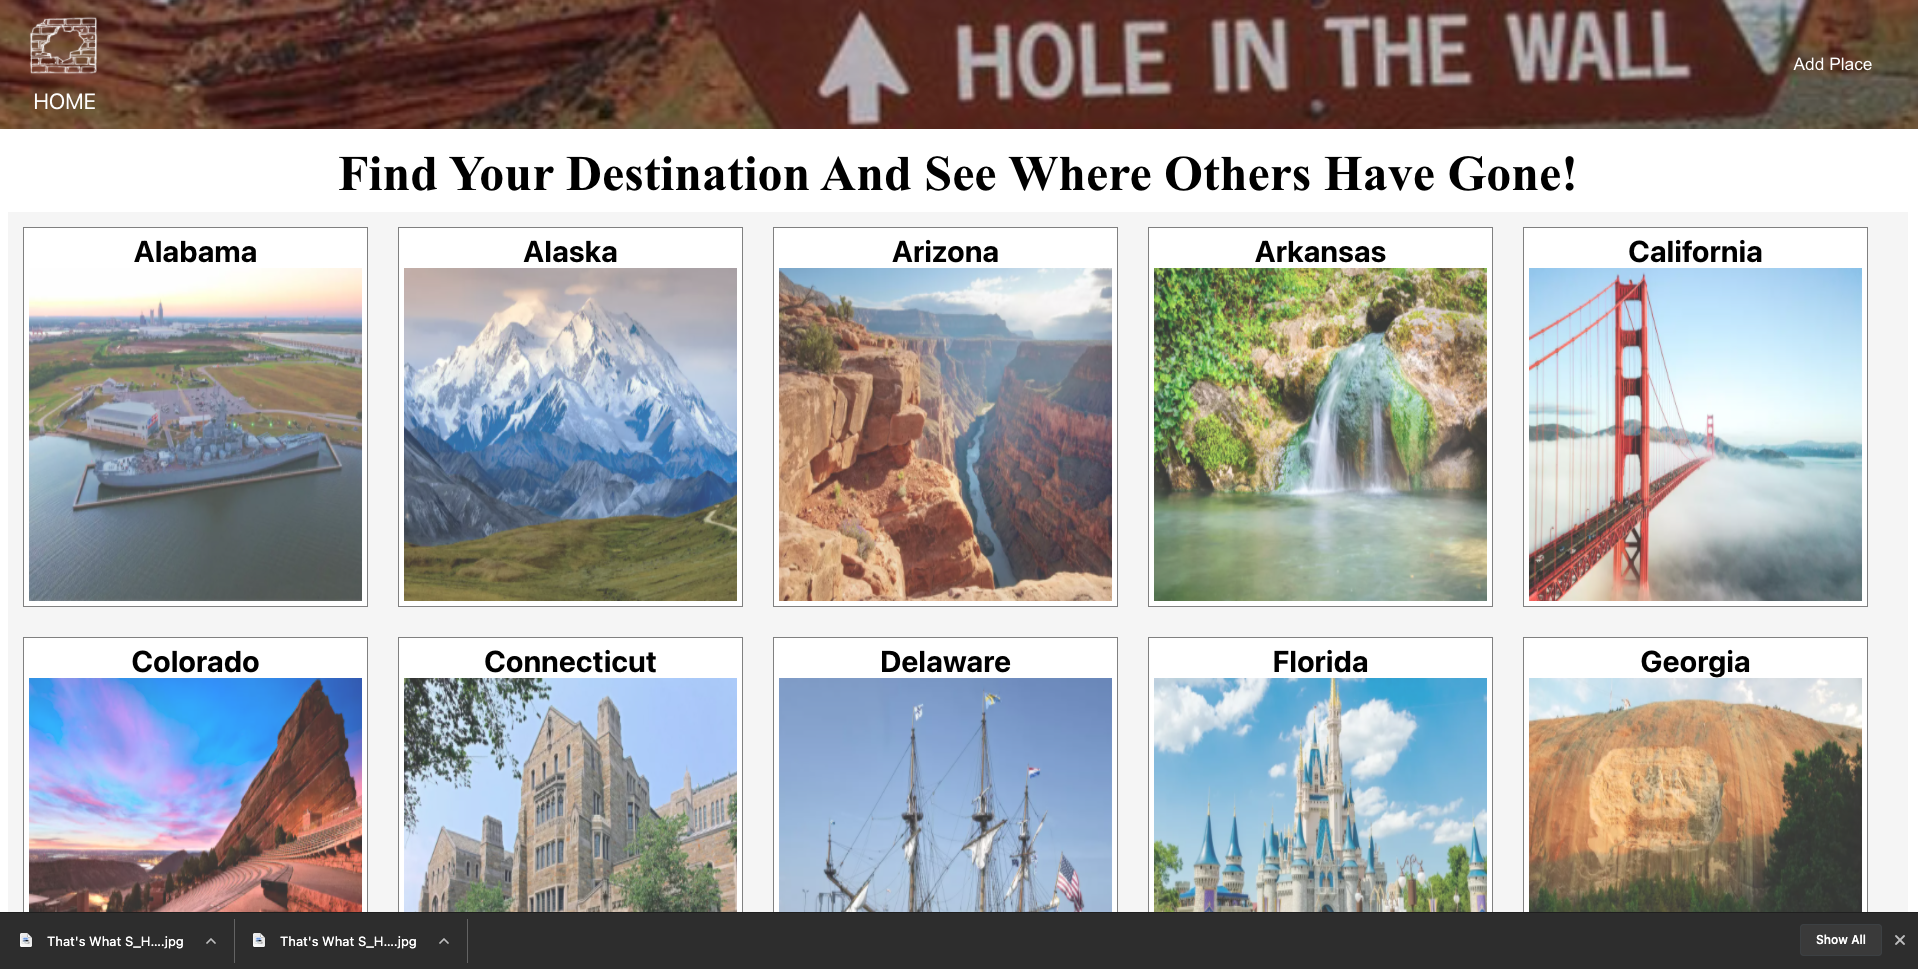
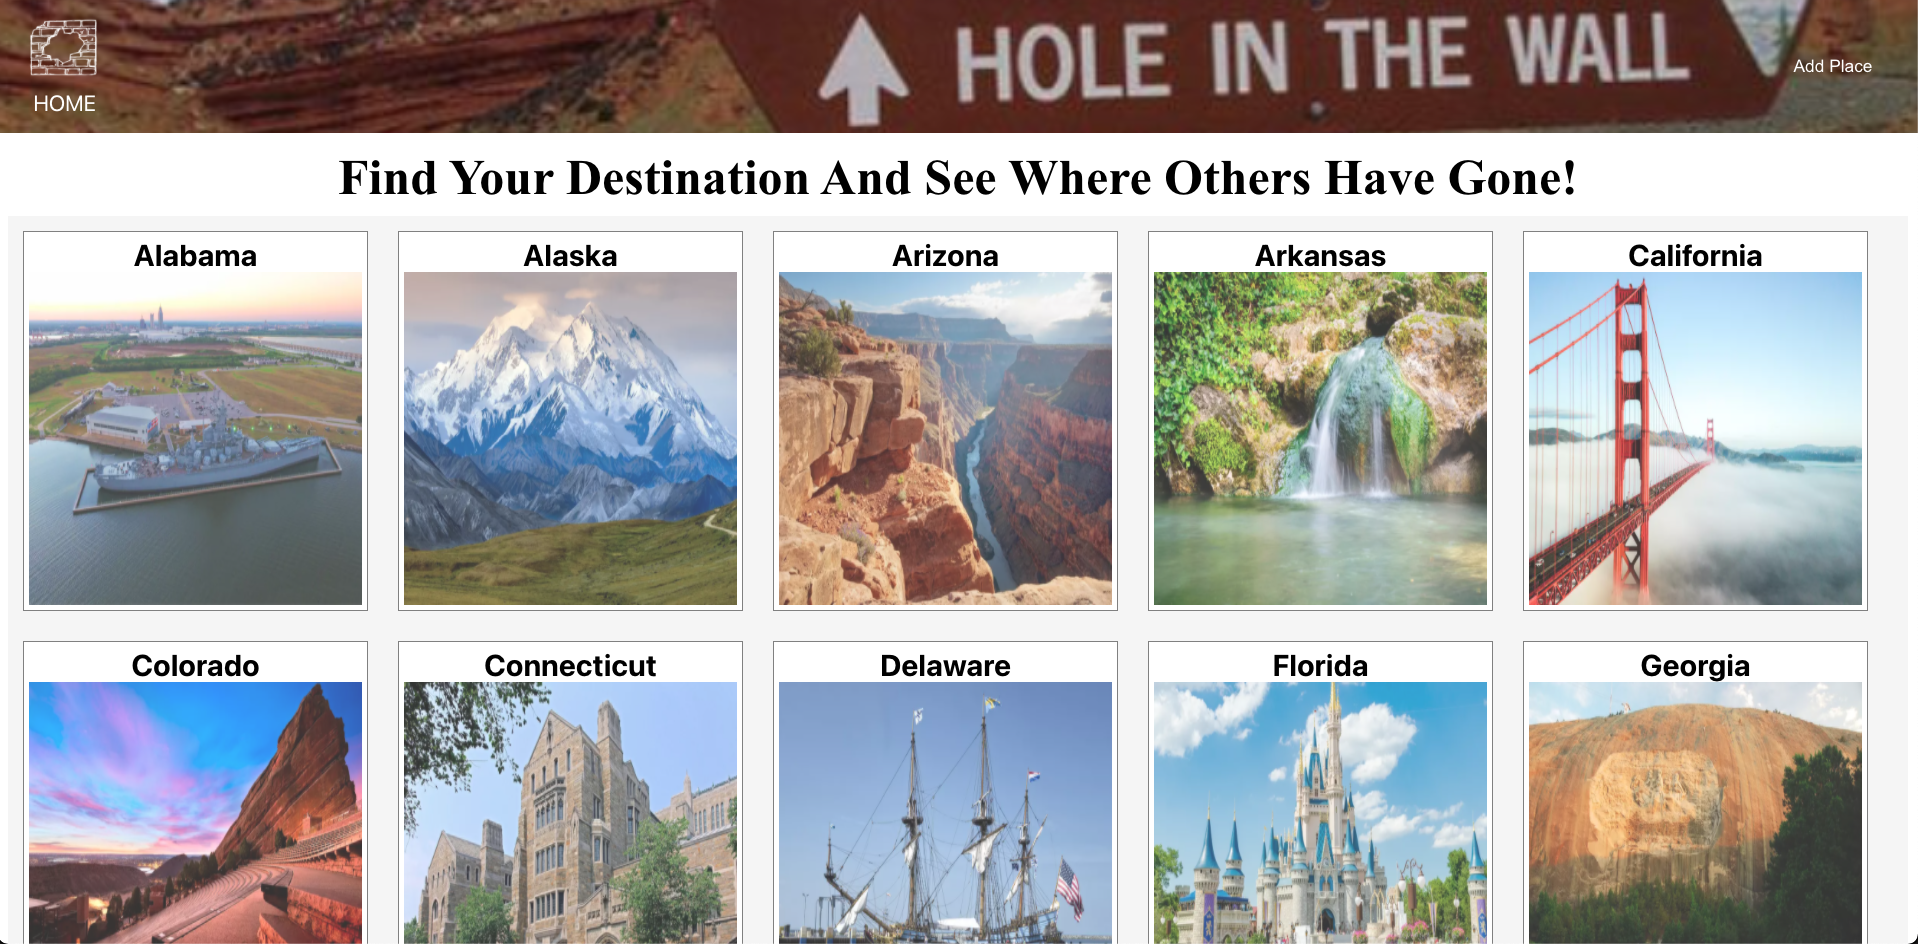
Dark mode/ started mobile view

diff --git a/src/App.js b/src/App.js
@@ -5,7 +5,7 @@ function App() {
     <div className="App">
       <header className="App-header">
         <div className="name">
-          <img className='portfolio-img' src='images/StevenLarsen.jpg' alt="Steven Larsen's portfolio picture"/>
+          <img className='portfolio-img' src='images/StevenLarsen.jpg' alt="Steven Larsen's portfolio"/>
           <h1>Steven Larsen</h1>
         </div>
         <div className="links">
@@ -30,7 +30,8 @@ function App() {
         <a href='https://thatswhatshesaid.dev'>
           <h2 className='website'>That's What S/He Said</h2>
           </a> 
-        <p>That's What S/He Said is an app that lets the user easly add, search, access, and edit their favorite quotes; as well as find new quotes other users have posted.</p>
+          <br/>
+        <p className='website-info'>That's What S/He Said is an app that lets the user easly add, search, access, and edit their favorite quotes; as well as find new quotes other users have posted.</p>
         <br/>
         <br/>
         <div className='images'>
@@ -42,7 +43,8 @@ function App() {
         <a href='http://138.68.42.88:4000/'>
           <h2 className='website'>Hole In The Wall</h2>
           </a> 
-        <p>Hole In The Wall is an app where users can add or find great places to eat in every state. If you are traveling or just want to discover something new close to home rather then eat the same fast food again</p>
+          <br/>
+        <p className='website-info'>Hole In The Wall is an app where users can add or find great places to eat in every state. If you are traveling or just want to discover something new close to home rather then eat the same fast food again</p>
         <br/>
         <br/>
         <div className='images'>

diff --git a/src/App.css b/src/App.css
@@ -1,17 +1,16 @@
 .App {
   text-align: center;
-  background-color: #293E6F;
+  
+  /* background-color: #293E6F; */
 }
 
 .App-header {
-  background-image: url('https://wallpapercave.com/wp/wp5220815.jpg');
-  background-repeat: no-repeat;
-  background-size: cover;
+  background-color: #293E6F;
   position: sticky;
   top: 0;
   padding-left: 10px;
   padding-right: 10px;
-  max-height: 150px;
+  height: 150px;
   display: flex;
   flex-direction: row;
   align-items: center;
@@ -21,8 +20,9 @@
 }
 
 .portfolio-img {
-  height: 150px;
+  height: 135px;
   border-radius: 50%;
+  margin-top: 5px;
   margin-right: 10px;
 }
 
@@ -44,24 +44,68 @@
 }
 
 .website{
-  color: white;
-  text-decoration: underline white;
+  color: black;
+  text-decoration: underline black;
   flex-direction: row;
   margin: 10px;
 }
 
+.website-info{
+  color: black;
+  max-width: 800px;
+  margin-left: 29%;
+}
+
 .images {
   display: flex;
-  justify-content: space-evenly;
+  flex-direction: column;
+  align-items: center;
 }
 
 .image {
-  max-width: 40vw;
+  max-width: 65vw;
+  margin-bottom: 50px;
   
 }
 
 .body {
   height: auto;
-  color: white;
+  color: black;
 }
 
+@media (prefers-color-scheme: dark) {
+ 
+  .App {
+    background-color: black;
+  }
+  .website{
+    color: white;
+    text-decoration: underline white;
+  }
+  .website-info{
+    color: white;
+  }
+  .body {
+    color: white;
+  }
+}
+
+@media screen and (max-width: 1000px){
+  .App {
+    width: 100vw;
+  }
+
+  .App-header {
+    max-height: 15vh;
+  }
+
+  .portfolio-img {
+    height: 12vh;
+    margin-top: 2vh;
+  }
+
+  .website-info{
+    max-width: 75vw;
+    margin-left: 12%;
+  }
+}
